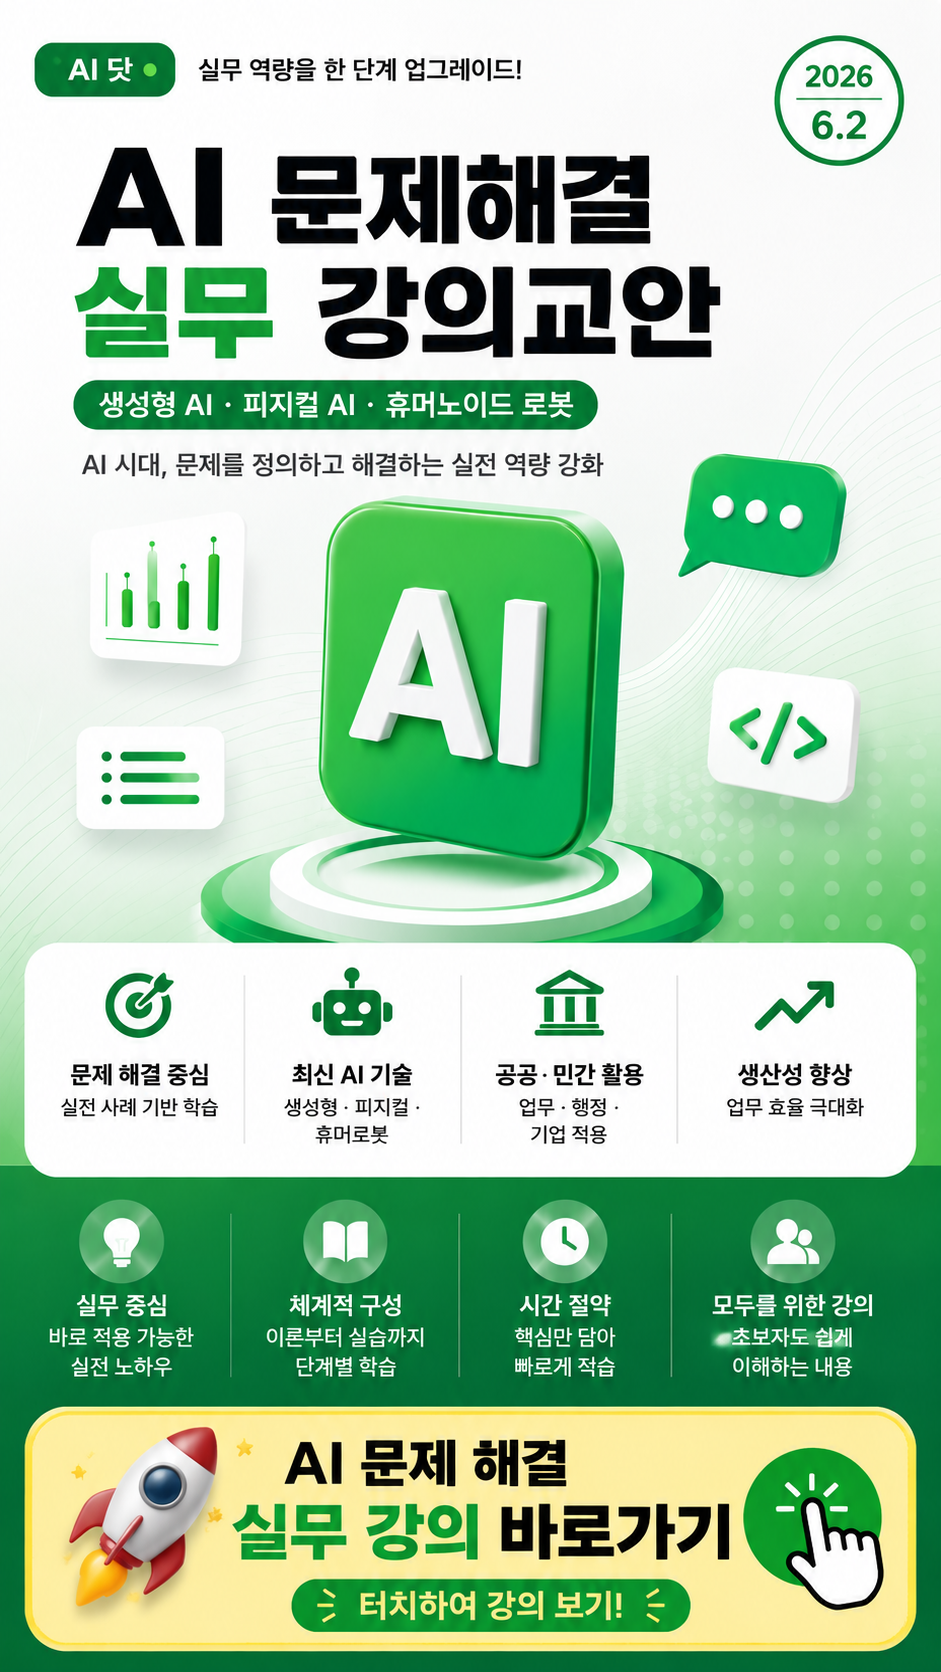
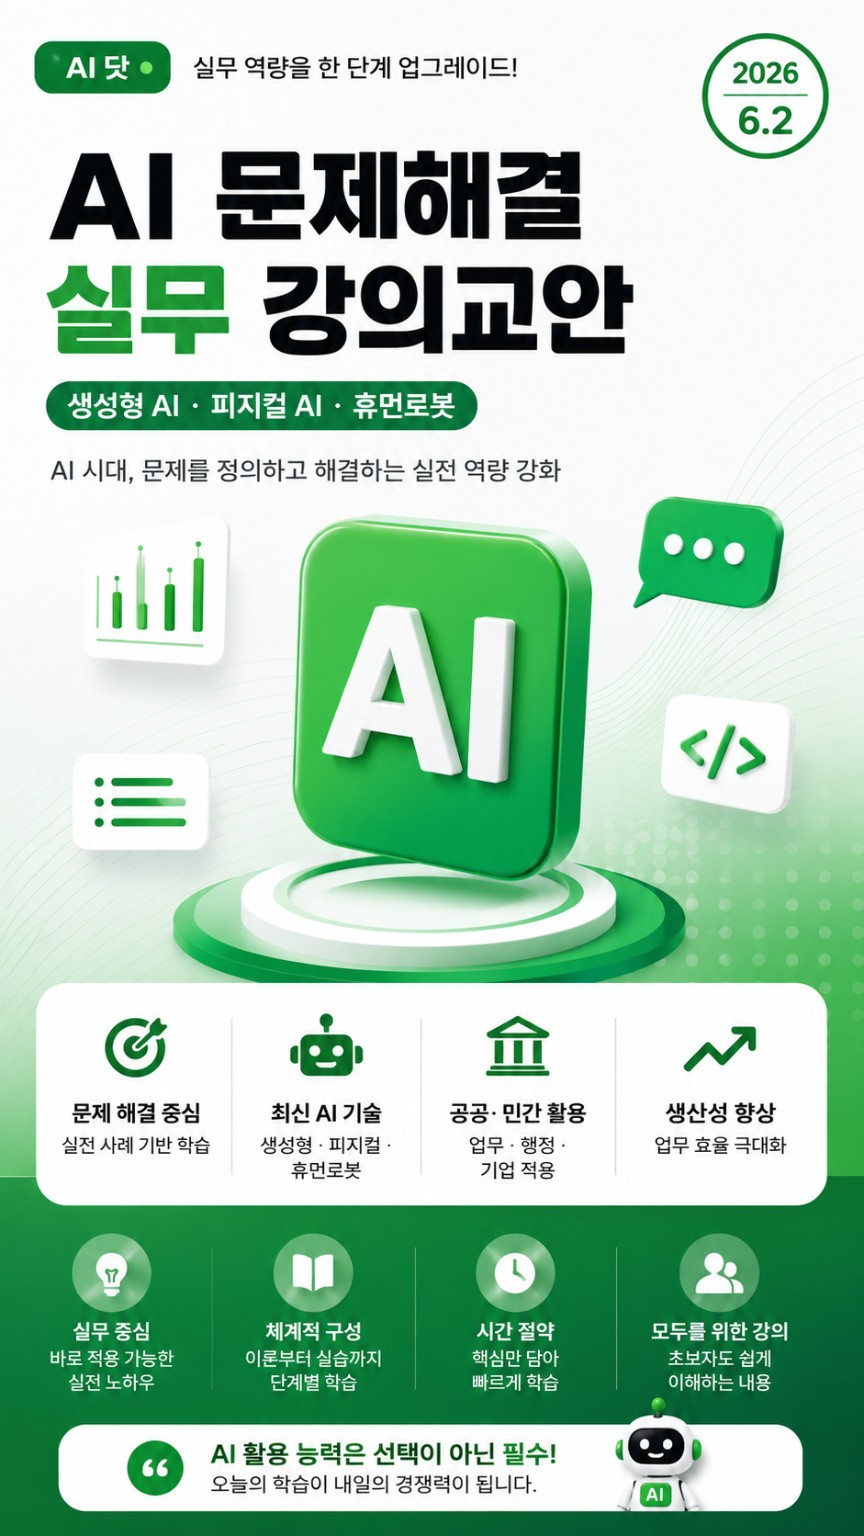
Add files via upload

diff --git a/index.html b/index.html
@@ -5,12 +5,12 @@
   <meta name="viewport" content="width=device-width, initial-scale=1.0" />
 
   <title>AI 문제 해결 실무 강의</title>
-  <meta name="description" content="AI 시대, 문제를 정의하고 해결하는 실전 역량 강화 강의교안입니다." />
+  <meta name="description" content="생성형 AI, 피지컬 AI, 휴머노이드 로봇을 실무 문제 해결 관점으로 배우는 강의교안입니다." />
 
-  <!-- 카카오톡 / 페이스북 / 네이버 공유 썸네일 -->
+  <!-- 카카오톡 공유 썸네일 설정 -->
   <meta property="og:type" content="website" />
   <meta property="og:title" content="AI 문제 해결 실무 강의" />
-  <meta property="og:description" content="생성형 AI · 피지컬 AI · 휴머노이드 로봇을 실무 문제 해결 관점으로 배우는 강의교안" />
+  <meta property="og:description" content="AI 시대, 문제를 정의하고 해결하는 실전 역량 강화 강의교안" />
   <meta property="og:image" content="kakao_thumbnail.png" />
   <meta property="og:image:width" content="900" />
   <meta property="og:image:height" content="1600" />
@@ -20,97 +20,115 @@
     *{box-sizing:border-box;margin:0;padding:0}
     body{
       font-family:-apple-system,BlinkMacSystemFont,"Noto Sans KR","Pretendard","Segoe UI",sans-serif;
-      background:#f5f8f4;
-      color:#121212;
+      background:#eef5ef;
       min-height:100vh;
-      line-height:1.6;
+      display:flex;
+      justify-content:center;
+      align-items:flex-start;
+      padding:14px;
     }
-    .wrap{
-      max-width:720px;
-      margin:0 auto;
-      padding:18px;
-    }
-    .card{
+
+    .phone{
+      width:min(100%,720px);
       background:#fff;
       border-radius:28px;
       overflow:hidden;
-      box-shadow:0 16px 40px rgba(0,0,0,.12);
-      border:1px solid #e6efe8;
+      box-shadow:0 18px 42px rgba(0,0,0,.14);
+      border:1px solid #dfece3;
     }
+
+    .hero-link{
+      display:block;
+      position:relative;
+      text-decoration:none;
+      color:inherit;
+      cursor:pointer;
+    }
+
     .thumb{
-      width:100%;
-      display:block;
-      background:#e8f9ee;
-    }
-    .content{
-      padding:24px 22px 28px;
-      text-align:center;
-    }
-    .badge{
-      display:inline-block;
-      background:#e8f9ee;
-      color:#168a3a;
-      border-radius:999px;
-      padding:7px 14px;
-      font-weight:900;
-      font-size:13px;
-      margin-bottom:12px;
-    }
-    h1{
-      font-size:clamp(28px,7vw,42px);
-      line-height:1.2;
-      letter-spacing:-1px;
-      margin-bottom:12px;
-      font-weight:950;
-    }
-    .green{color:#1db954}
-    p{
-      color:#555;
-      font-size:16px;
-      margin-bottom:20px;
-      word-break:keep-all;
-    }
-    .btn{
       display:block;
       width:100%;
+      height:auto;
+    }
+
+    .overlay{
+      position:absolute;
+      left:50%;
+      bottom:38px;
+      transform:translateX(-50%);
+      width:86%;
       background:#1db954;
       color:white;
-      text-decoration:none;
-      font-size:20px;
-      font-weight:900;
-      padding:18px 20px;
-      border-radius:18px;
-      box-shadow:0 10px 22px rgba(29,185,84,.28);
+      border-radius:28px;
+      padding:24px 18px;
+      text-align:center;
+      box-shadow:0 16px 35px rgba(29,185,84,.38);
+      border:4px solid rgba(255,255,255,.9);
     }
-    .btn:active{transform:scale(.99)}
-    .sub{
-      margin-top:14px;
-      font-size:13px;
-      color:#777;
+
+    .overlay-title{
+      font-size:clamp(28px,6vw,46px);
+      font-weight:950;
+      letter-spacing:-1px;
+      line-height:1.25;
+    }
+
+    .overlay-sub{
+      margin-top:8px;
+      font-size:clamp(15px,3.6vw,24px);
+      font-weight:800;
+      opacity:.95;
+    }
+
+    .tap{
+      background:#fff;
+      color:#10863a;
+      border-radius:999px;
+      display:inline-block;
+      padding:8px 18px;
+      margin-top:12px;
+      font-weight:950;
+      font-size:clamp(14px,3.2vw,20px);
+    }
+
+    .notice{
+      padding:18px 20px 24px;
+      text-align:center;
+      color:#555;
+      font-size:15px;
+      line-height:1.6;
+    }
+
+    @media(max-width:520px){
+      body{padding:0;background:#fff}
+      .phone{border-radius:0;box-shadow:none;border:none}
+      .overlay{
+        width:88%;
+        bottom:26px;
+        border-radius:22px;
+        padding:18px 14px;
+      }
     }
   </style>
 </head>
+
 <body>
-  <main class="wrap">
-    <section class="card">
+  <main class="phone">
+    <!-- 이 이미지 전체가 실제 바로가기 버튼입니다 -->
+    <a class="hero-link" href="AI문제해결실무_강의교안.html" aria-label="AI 문제 해결 실무 강의 바로가기">
       <img class="thumb" src="kakao_thumbnail.png" alt="AI 문제 해결 실무 강의 썸네일" />
 
-      <div class="content">
-        <div class="badge">AI닷 강의교안</div>
-        <h1><span class="green">AI 문제 해결</span><br>실무 강의</h1>
-        <p>
-          생성형 AI, 피지컬 AI, 휴머노이드 로봇을 실무 문제 해결 관점으로 배우는 강의교안입니다.
-        </p>
-
-        <a class="btn" href="AI문제해결실무_강의교안.html">
-          🚀 AI 문제 해결 실무 강의 바로가기
-        </a>
-
-        <div class="sub">
-          GitHub Pages에 올린 뒤 이 index.html 주소를 카카오톡에 공유하세요.
-        </div>
+      <div class="overlay">
+        <div class="overlay-title">🚀 AI 문제 해결 실무 강의<br>바로가기</div>
+        <div class="overlay-sub">썸네일 화면을 터치하면 강의교안으로 이동합니다</div>
+        <div class="tap">👆 터치하여 강의 보기</div>
       </div>
-    </section>
+    </a>
+
+    <div class="notice">
+      카카오톡에서 링크를 터치하면 이 화면이 열리고,<br>
+      썸네일 이미지 전체를 누르면 강의교안으로 바로 이동합니다.
+    </div>
   </main>
 </body>
 </html>